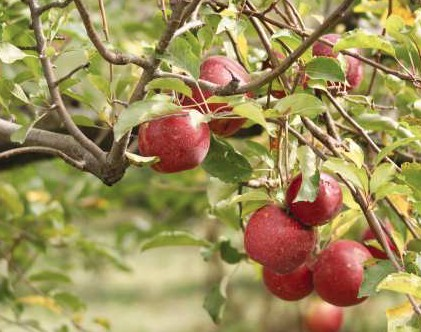
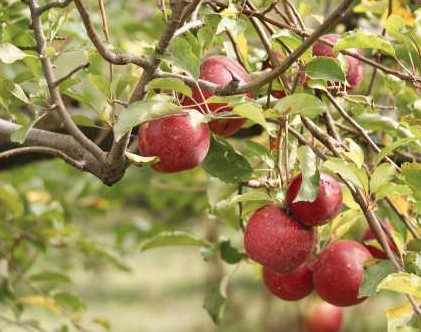
lower page weight

diff --git a/lesson5/preston-5.html b/lesson5/preston-5.html
@@ -42,7 +42,7 @@
     <main>
     <h2>Preston Idaho</h2>
     <div class="hero-div">
-        <img class="photo" src="images/idahoimage.PNG" alt="image of Preston Town">
+        <img class="photo" src="images/idahoimage.jpg" alt="image of Preston Town">
         <section class="weathersummary">
             <h3>Weather Summary</h3>
             <table class= "summarytable">
